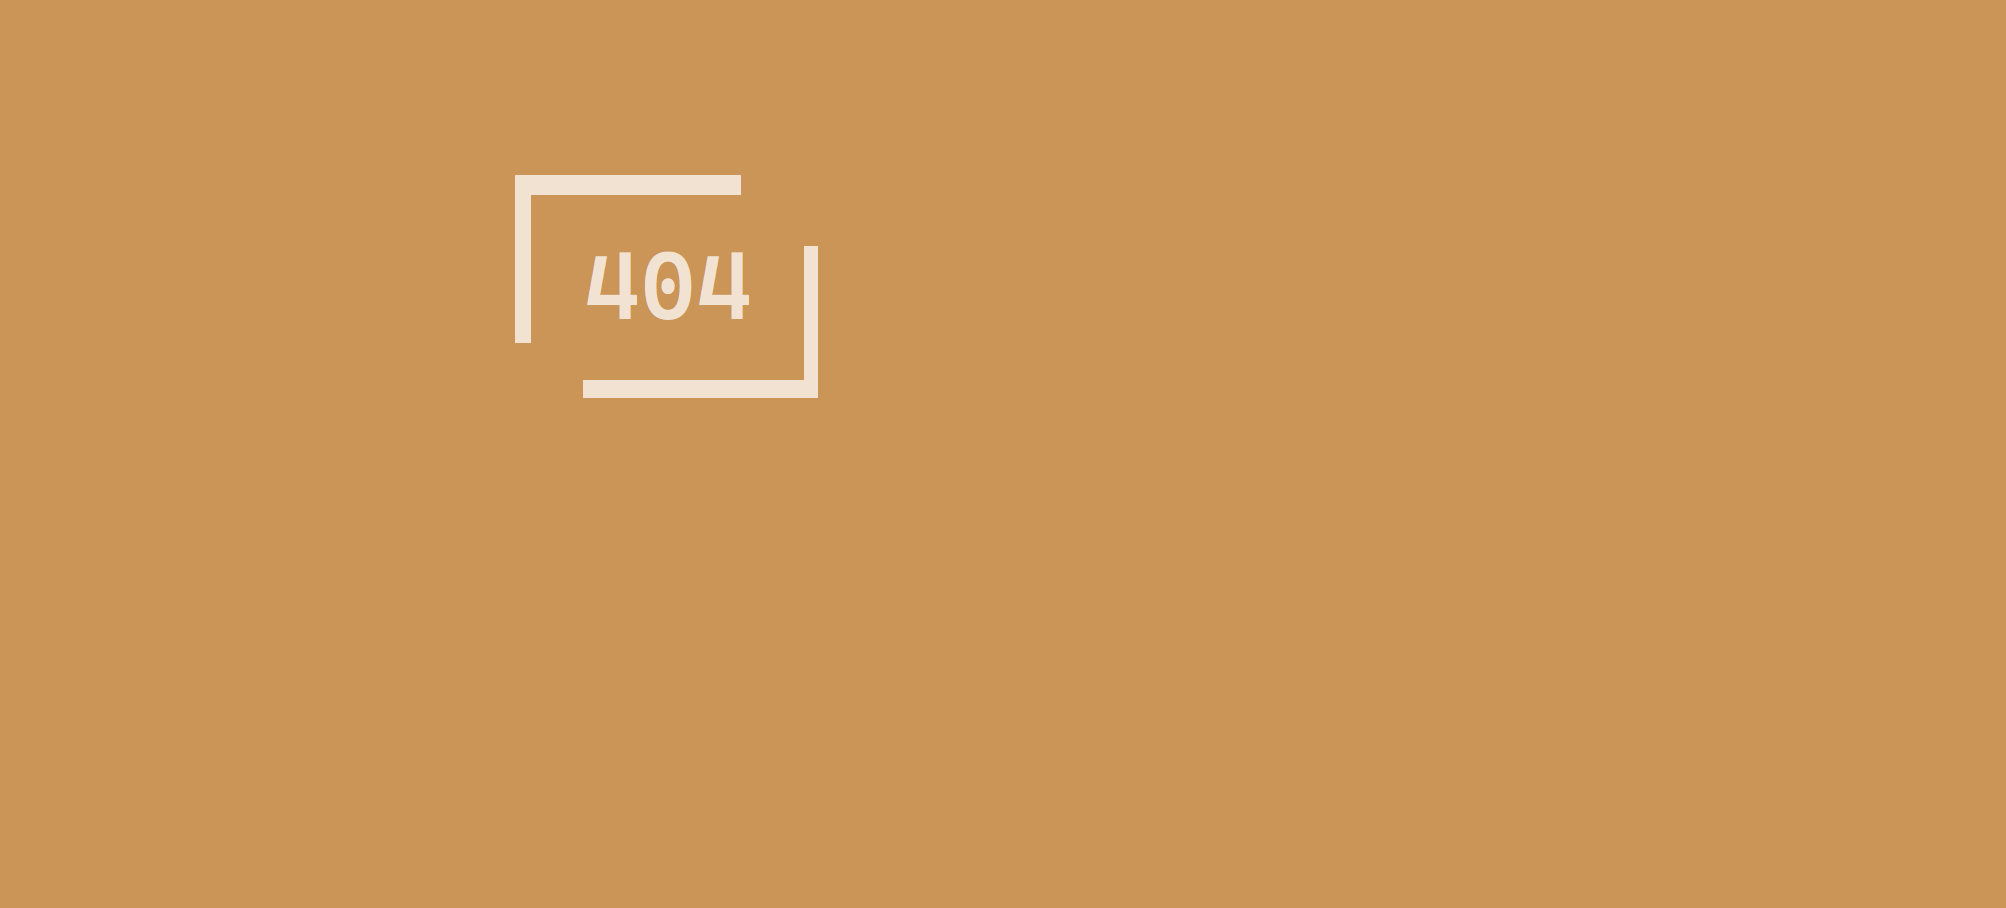
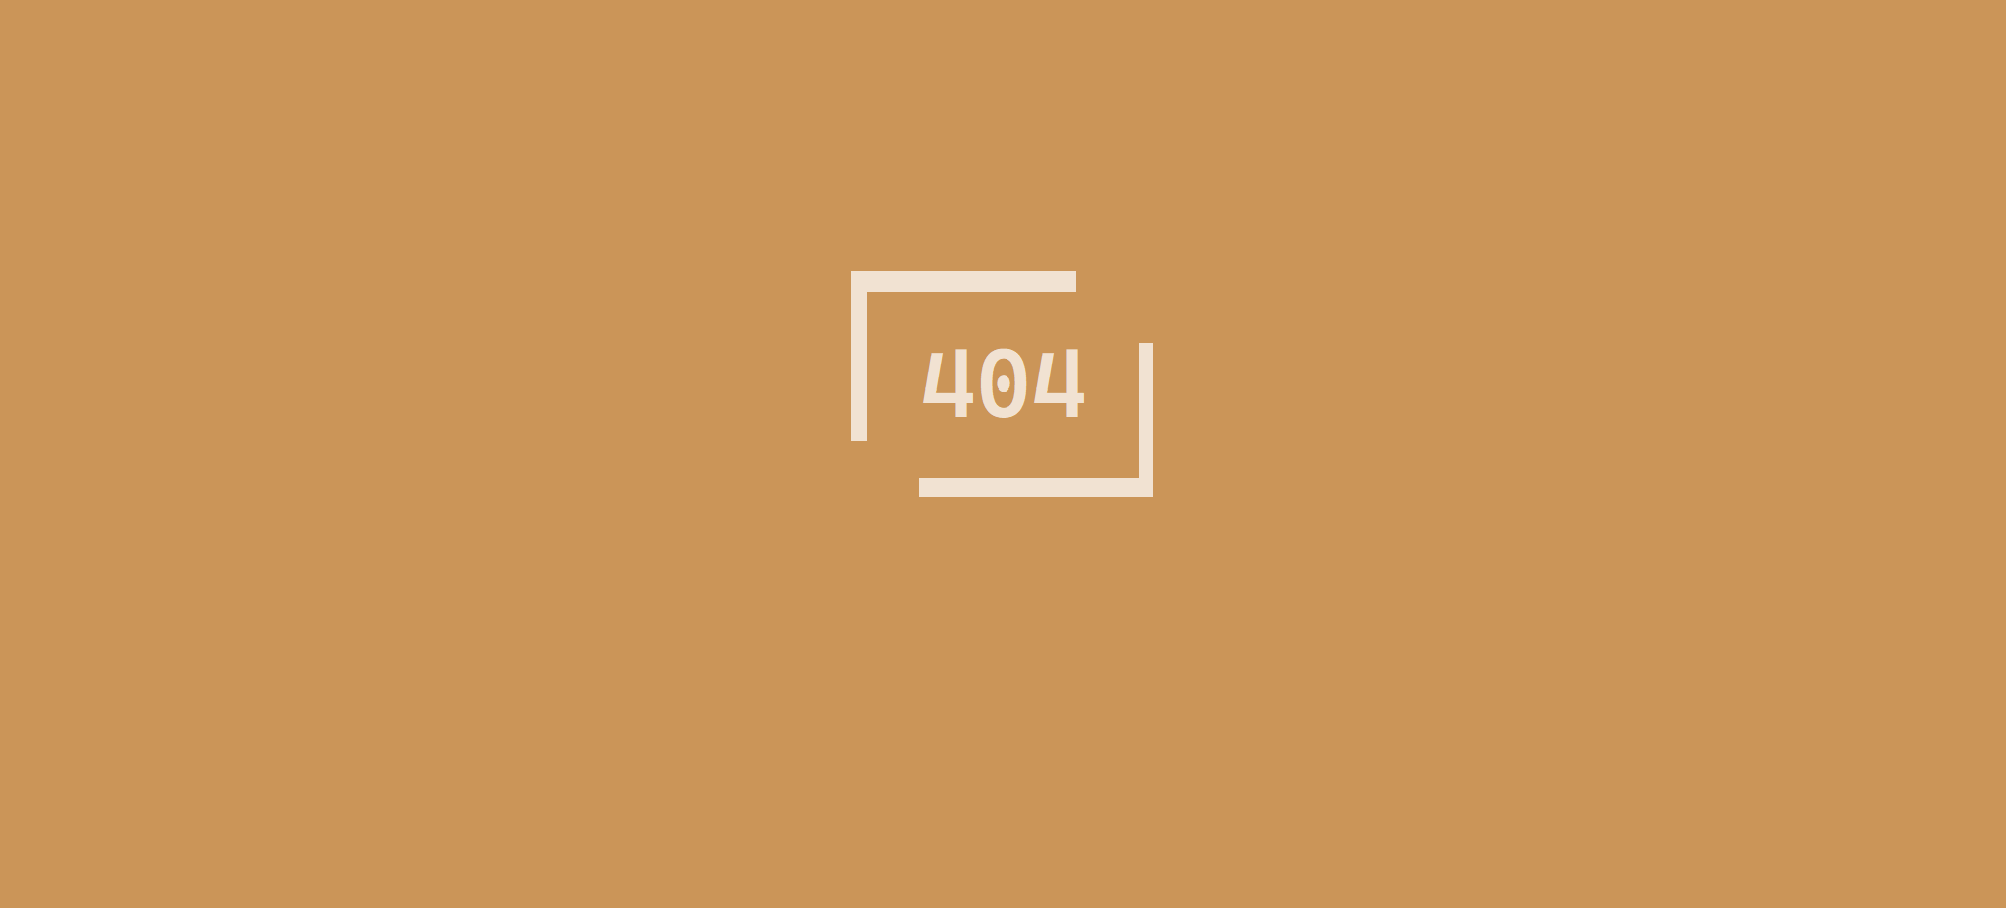
Made Responsive

Changed region(s): [[0.2782, 0.2775, 0.5563, 0.4934], [0.4327, 0.37, 0.5872, 0.5551], [0.2473, 0.185, 0.3709, 0.37]]

diff --git a/css/style.css b/css/style.css
@@ -80,7 +80,9 @@ header a:hover{
 
 header li{
     float: left;
-    display: inline;
+    height: 30px;
+    display: flex;
+    align-items: center;
     padding: 0 20px;
 }
 
@@ -100,22 +102,25 @@ header nav{
     margin-top: 10px;
     min-height: 500px;
     background: url('../images/showcase.png') no-repeat 0 5px;
-    text-align: center;
     color: rgb(243, 237, 225);
     position: relative;
+    text-align: center;
+    background-size: cover;
 }
 
 #showcase h1{
     position: absolute;
-    top: 35%;
-    left: 45%;
+    top: 40%;
+    left: 50%;
+    transform: translate(-50%, -50%);
     font: 50px 'The Nautigal', cursive;
 }
 
 #showcase p{
     position: absolute;
-    top: 45%;
-    left: 40%;
+    top: 52%;
+    left: 50%;
+    transform: translate(-50%, -50%);
     font: 70px 'The Nautigal', cursive;
 }
 
@@ -124,7 +129,7 @@ header nav{
 #find_nearest{
     margin: 0;
     min-height: 600px;
-    background: url('../images/nearest_cupofjoy.png') no-repeat center;
+    background: url('../images/nearest_cupofjoy.png') no-repeat center center;
     text-align: center;
     text-transform: uppercase;
     color: rgb(79, 61, 27);
@@ -132,9 +137,10 @@ header nav{
 }
 
 .hline{
-    margin-top: 70px;
     position: absolute;
-    left: 175px;
+    top: 11%;
+    left: 13%;
+    transform: translate(0, -11%);
     width: 50%;
     height: 32px;
     border-bottom: 1.5px solid rgb(79, 61, 27);
@@ -148,17 +154,19 @@ header nav{
 }
 
 #find_nearest p{
-    margin-top: 115px;
     position: absolute;
-    left: 325px;
+    top: 24%;
+    left: 22.5%;
+    transform: translate(0, -24%);
     font-size: 35px;
 }
 
 .cafe-finder{
     position: absolute;
     padding: 10px;
-    margin-top: 180px;
-    margin-left: 820px;
+    top: 40%;
+    right: 10%;
+    transform: translate(10%, -10%);
 }
 
 #find_nearest input[type="area"]{
@@ -191,6 +199,7 @@ header nav{
     margin-top: 4px;
     min-height: 493px;
     background: url('../images/tmp.png') no-repeat 0 -100px;
+    background-position: center center;
     text-align: center;
     color: rgb(249, 247, 245);
     position: relative;
@@ -198,15 +207,17 @@ header nav{
 
 #errorpg p{
     position: absolute;
-    bottom: 20%;
-    left: 34%;
+    bottom: 16%;
+    left: 50%;
+    transform: translate(-50%, -16%);
     font: 20px 'Poppins', sans-serif;
 }
 
 #errorpg a{
     position: absolute;
-    bottom: 10%;
-    left: 44%;
+    bottom: 6%;
+    left: 50%;
+    transform: translate(-50%, -6%);
     font: 20px  'Poppins', sans-serif;
 }
 
@@ -215,8 +226,9 @@ header nav{
     text-decoration: none;
     text-transform: uppercase;
     font-size: 14px;
-    height: 38px;
-    background: #fff;
+    height: 42px;
+    width: 200px;
+    background: rgb(241, 226, 210);
     border: 0;
     border-radius: 15px;
     padding: 10px 10px;
@@ -234,7 +246,9 @@ header nav{
 /* About Us page */
 #about-img{
     min-height: 480px;
+    background-size: cover;
     background: url('../images/about.jpg') no-repeat 0 10px;
+    background-position: center center;
     color: rgb(217, 208, 190);
     position: relative;
     text-align: center;
@@ -242,8 +256,9 @@ header nav{
 
 #about-img h1{
     position: absolute;
-    top: 45%;
-    left: 43%;
+    top: 50%;
+    left: 50%;
+    transform: translate(-50%, -50%);
     font: 65px 'The Nautigal', cursive;
 }
 
@@ -302,6 +317,12 @@ article#main-col{
 #menu h2{
     margin: 40px 0 20px 0;
     font: 50px 'The Nautigal', cursive;
+}
+
+#menu .menu-container{
+    max-width: 40em;
+    margin: auto;
+    padding: 0 15px;
 }
 
 #menu .menu-list{
@@ -374,7 +395,7 @@ footer img{
 }
 
 
-@media(max-width: 768px){
+@media(max-width: 1023px){
     header #branding,
     header nav,
     header nav li,
@@ -386,5 +407,45 @@ footer img{
         float: none;
         text-align: center;
         width: 100%;
+    }
+
+    header li{
+        display: inline;
+    }
+
+    #showcase h1{
+        font-size: 40px;
+        top: 38%;
+    }
+
+    #showcase p{
+        font-size: 55px;
+        top: 55%;
+    }
+
+    #errorpg{
+        margin-bottom: 118px;
+    }
+
+    #find_nearest{
+        background: url('../images/nearest_cupofjoy1.png') no-repeat center center;
+    }
+
+    #find_nearest p{
+        top: 24%;
+        left: 50%;
+        transform: translate(-50%, -24%);
+        font-size: 29px;
+    }
+
+    .hline{
+        left: 5%;
+        width: 90%;
+    }
+    
+    .cafe-finder{
+        top: 75%;
+        left: 10%;
+        transform: translate(0, -50%);
     }
 }

diff --git a/menu.html b/menu.html
@@ -56,7 +56,7 @@
         </div>
 
         <section id="menu">
-            <div class="container">
+            <div class="menu-container">
                 <h2>Espresso</h2>
                 <ul class="menu-list">
                     <li>
@@ -92,7 +92,7 @@
                   </ul>
             </div>
 
-            <div class="container">
+            <div class="menu-container">
                 <h2>Cold Brew</h2>
                 <ul class="menu-list">
                     <li>
@@ -113,7 +113,7 @@
                   </ul>
             </div>
 
-            <div class="container">
+            <div class="menu-container">
                 <h2>Cakes</h2>
                 <ul class="menu-list">
                     <li>
@@ -138,7 +138,7 @@
         <div class="clr"></div>
 
         <footer>
-            <p>&copy; 2022 A Cup of Joy. All rights reserved.</p>
+            <p>&copy; 2022 A Cup of Joy. Sample project.</p>
             <a href="#"><img src="./images/insta.png"></a>
             <a href="#"><img src="./images/meta.png"></a>
             <a href="#"><img src="./images/twitter.png"></a>

diff --git a/about.html b/about.html
@@ -70,7 +70,7 @@
         <div class="clr"></div>
 
         <footer>
-            <p>&copy; 2022 A Cup of Joy. All rights reserved.</p>
+            <p>&copy; 2022 A Cup of Joy. Sample project.</p>
             <a href="#"><img src="./images/insta.png"></a>
             <a href="#"><img src="./images/meta.png"></a>
             <a href="#"><img src="./images/twitter.png"></a>

diff --git a/services.html b/services.html
@@ -69,7 +69,7 @@
         <div class="clr"></div>
 
         <footer>
-            <p>&copy; 2022 A Cup of Joy. All rights reserved.</p>
+            <p>&copy; 2022 A Cup of Joy. Sample project.</p>
             <a href="#"><img src="./images/insta.png"></a>
             <a href="#"><img src="./images/meta.png"></a>
             <a href="#"><img src="./images/twitter.png"></a>

diff --git a/index.html b/index.html
@@ -68,7 +68,7 @@
         </section>
 
         <footer>
-            <p>&copy; 2022 A Cup of Joy. All rights reserved.</p>
+            <p>&copy; 2022 A Cup of Joy. Sample project.</p>
             <a href="#"><img src="./images/insta.png"></a>
             <a href="#"><img src="./images/meta.png"></a>
             <a href="#"><img src="./images/twitter.png"></a>

diff --git a/temp.html b/temp.html
@@ -51,7 +51,7 @@
 
 
         <footer>
-            <p>&copy; 2022 A Cup of Joy. All rights reserved.</p>
+            <p>&copy; 2022 A Cup of Joy. Sample project.</p>
             <a href="#"><img src="./images/insta.png"></a>
             <a href="#"><img src="./images/meta.png"></a>
             <a href="#"><img src="./images/twitter.png"></a>
